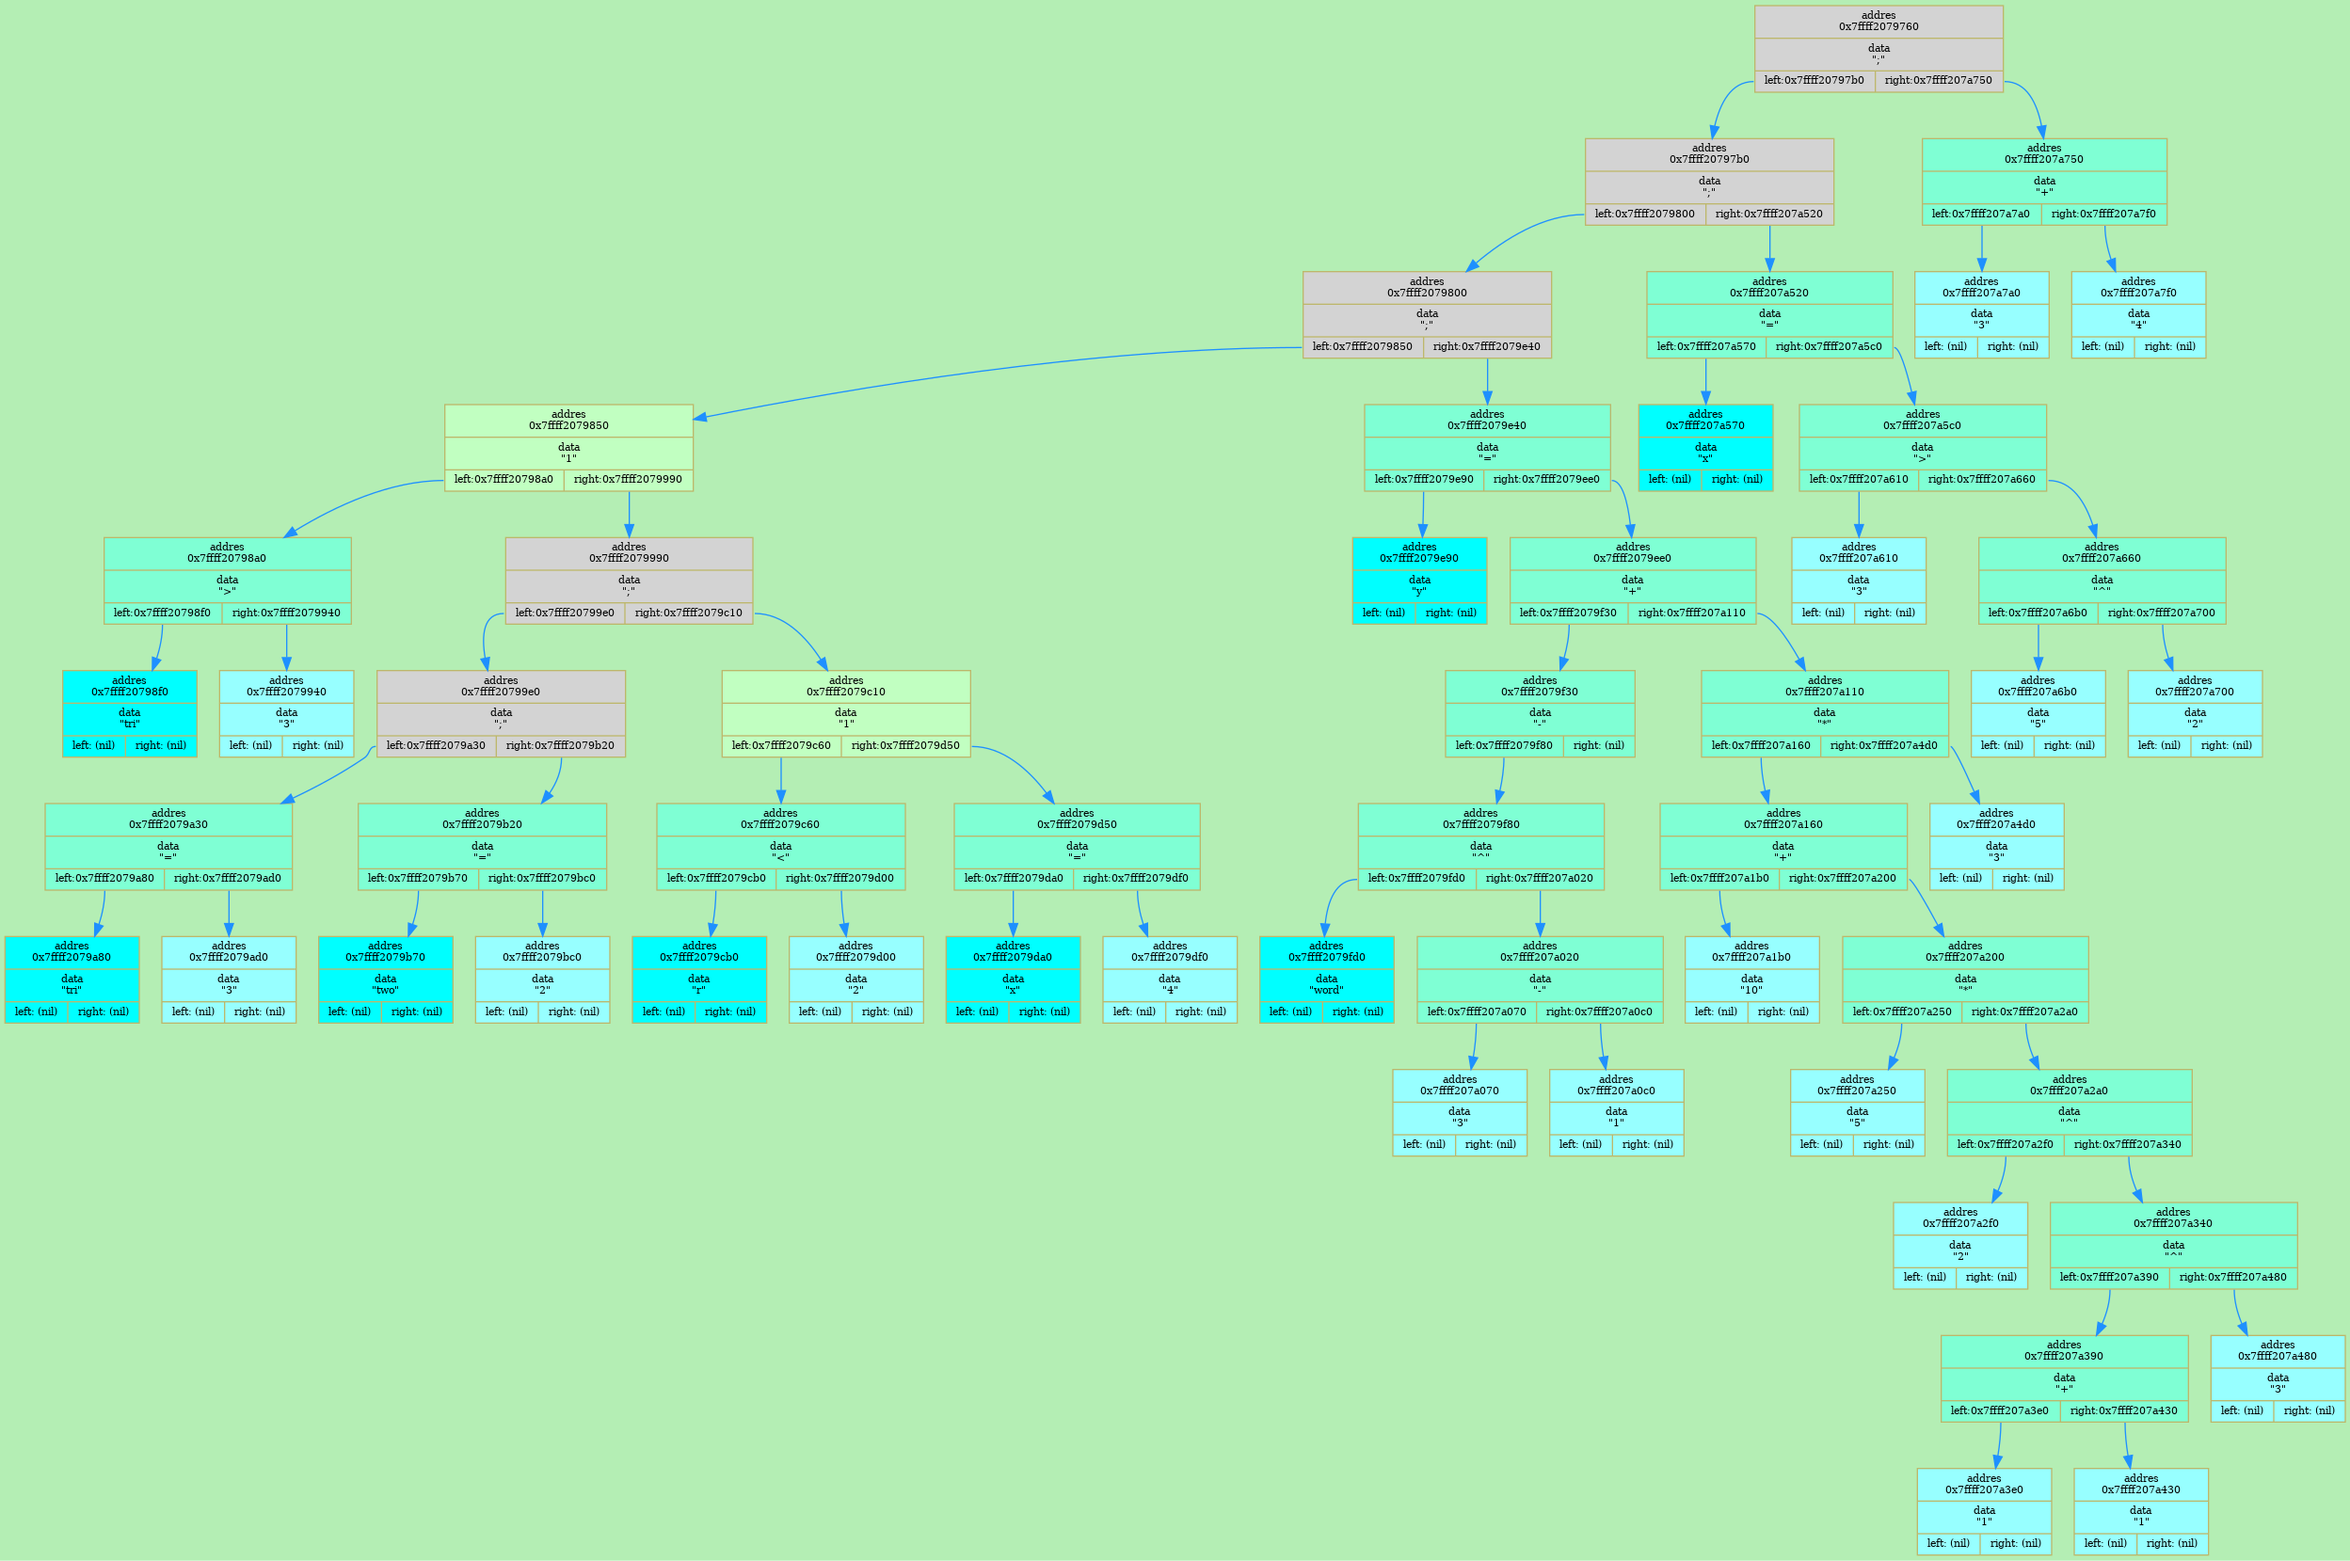
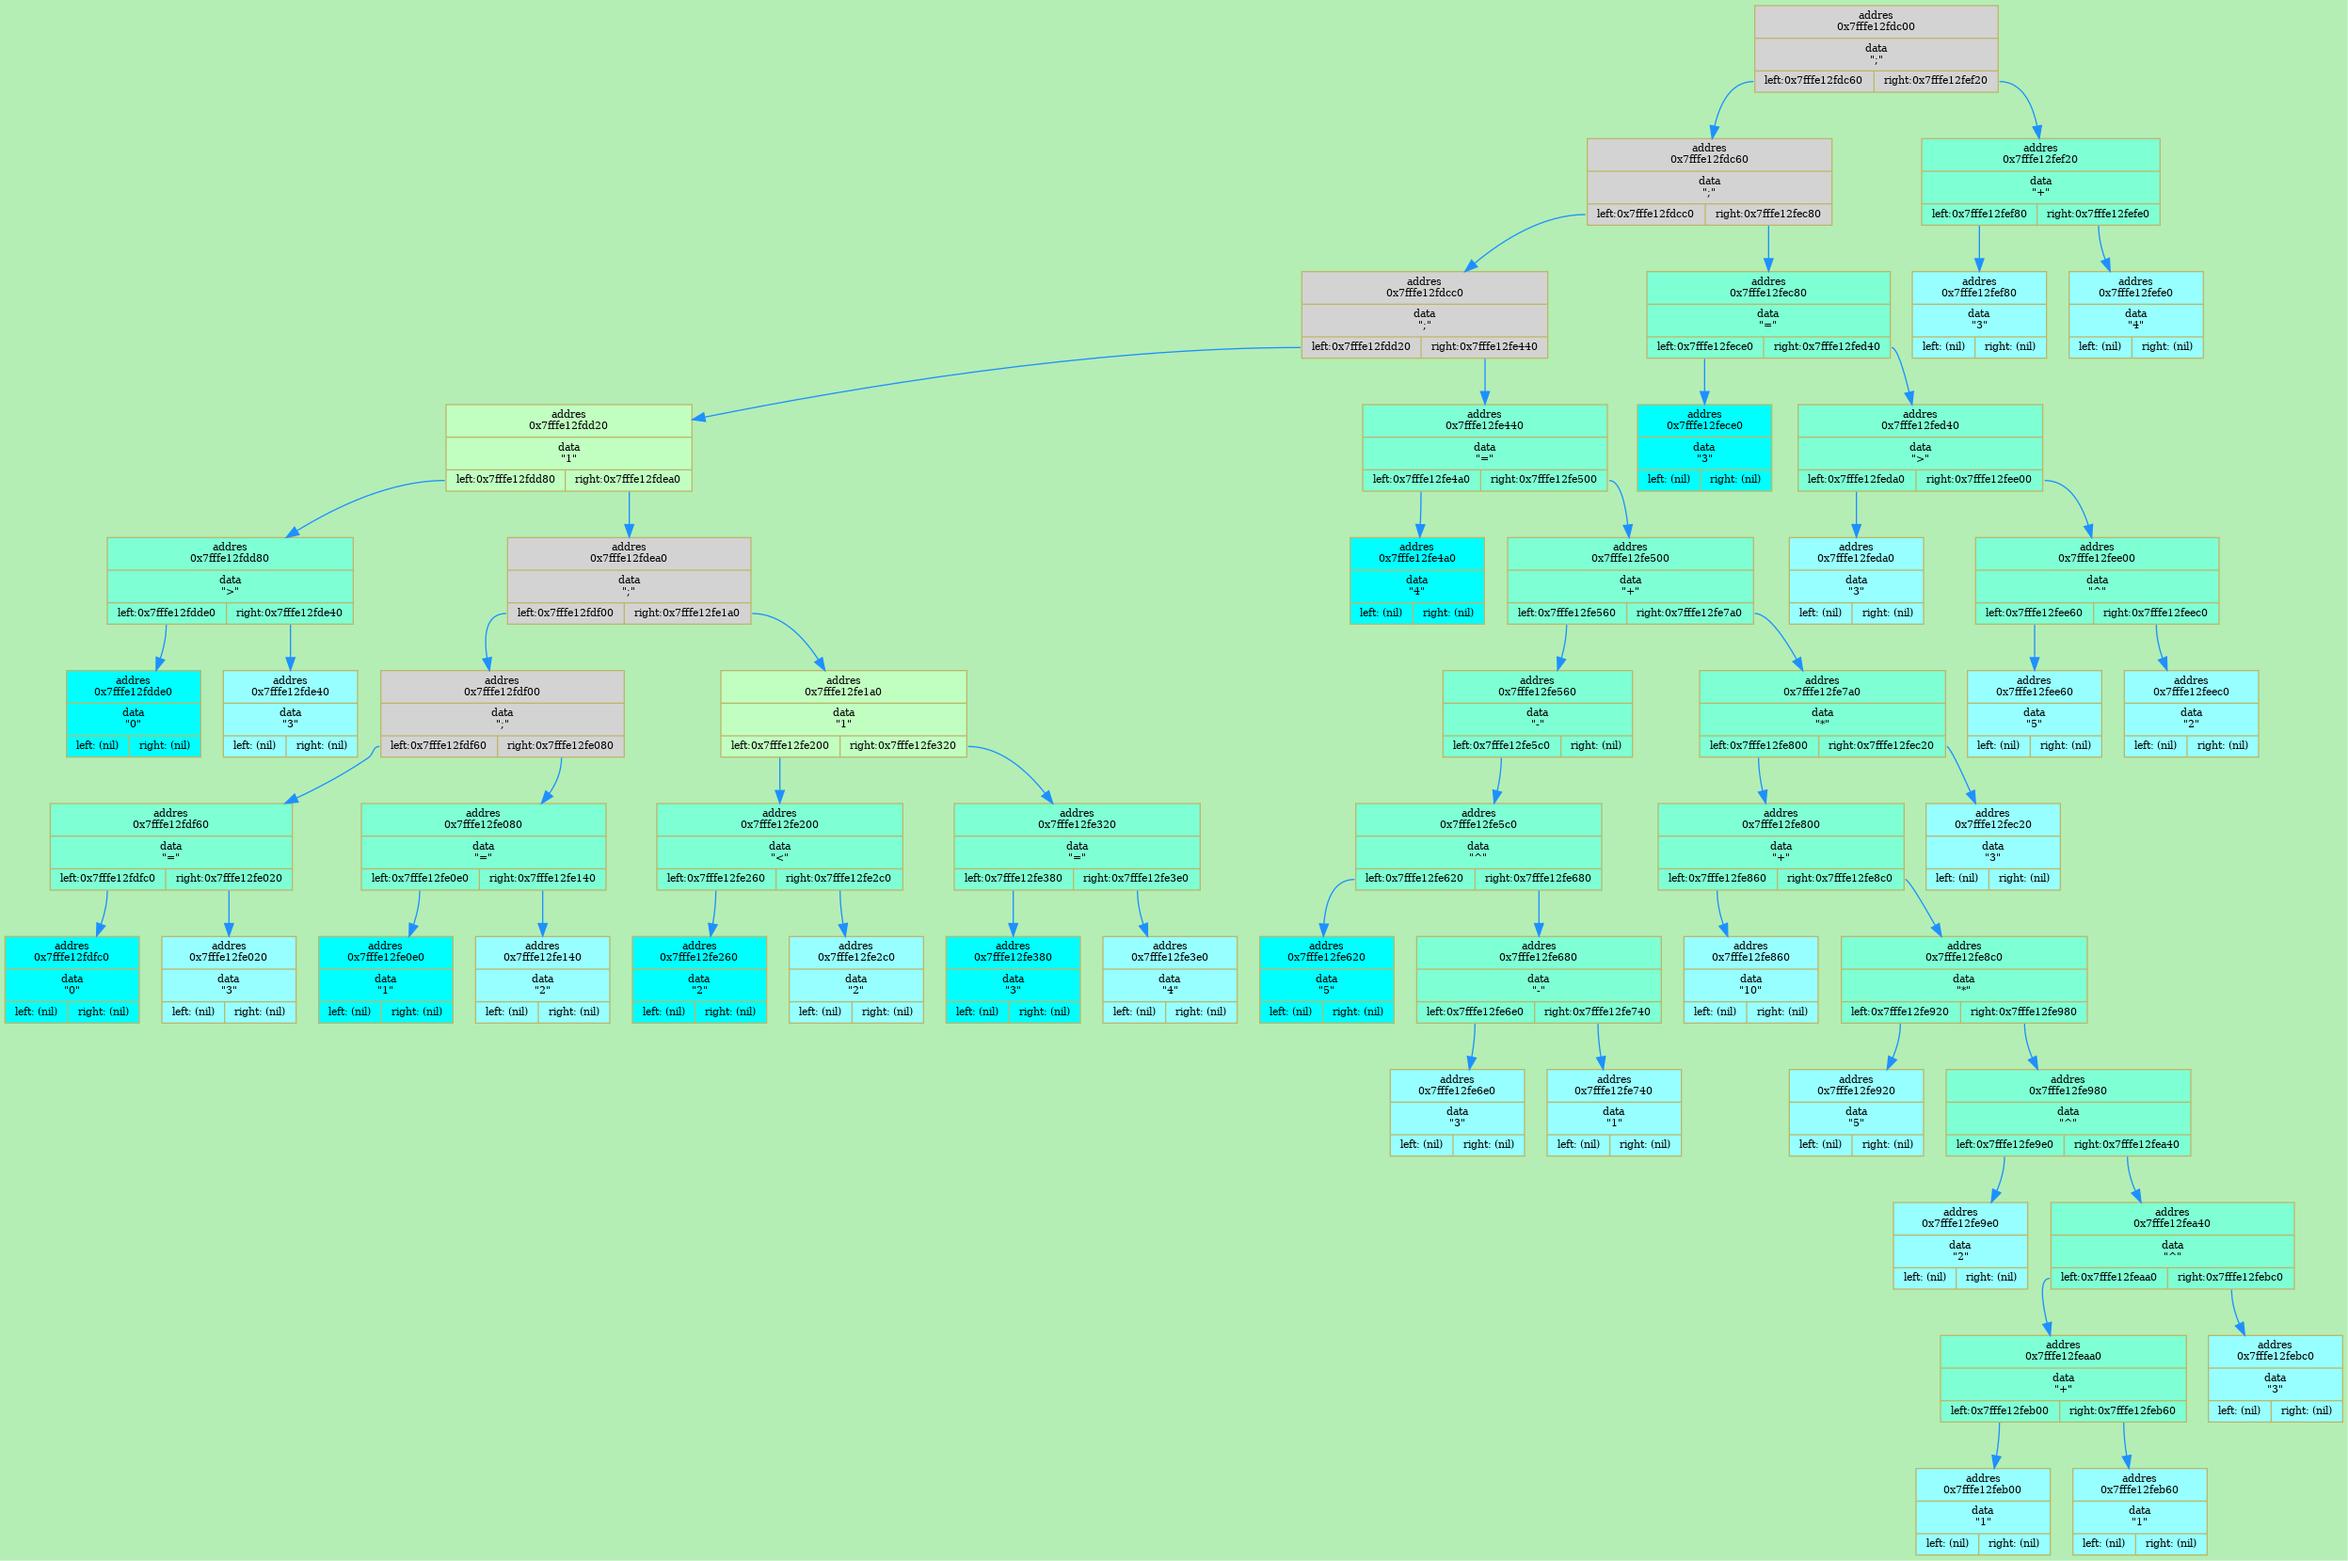
add label

diff --git a/src/parser.cpp b/src/parser.cpp
@@ -16,15 +16,19 @@ static item* GetWord                (sentence* sent);
 
 static int PrintError               (sentence* sent);
 
-static constr CheckConstruction        (const char* word);
-
-static int  SkipTabs (sentence* sent);
+static constr   CheckConstruction   (const char* word);
+static int      CheckLabel          (sentence* sent, char* word);
+static int      SkipTabs            (sentence* sent);
 
 item* GetGrammar (const char* str)
 {
     sentence sent = {};
     sent.str = str;
     sent.p = 0;
+    
+    sent.labelPoint = 0;
+    sent.labelSize  = MAXWORDLEN;
+    sent.label      = new char* [MAXWORDLEN];
 
     item* node = GetStr (&sent);
     
@@ -133,6 +137,8 @@ static item* GetEqual (sentence* sent)
     SkipTabs (sent);
 
     item* temp = GetExpression (sent);                      //
+
+    SkipTabs (sent);
     if ((temp->type == ERR) || (temp->type == CONSTR))
     { 
         if (parsSymb == '=')
@@ -383,7 +389,6 @@ static item* GetNumber (sentence* sent)
     {
         val = val * 10 + (parsSymb - '0');
         sent->p++;
-        SkipTabs (sent);
 
         if (('a' <= parsSymb && parsSymb <= 'z') || ('A' <= parsSymb && parsSymb <= 'Z'))
         {
@@ -403,6 +408,7 @@ static item* GetNumber (sentence* sent)
     else
         node = GetWord (sent);
 
+    SkipTabs (sent);
     return node;
 }
 
@@ -415,7 +421,8 @@ static item* GetWord (sentence* sent)
 
     int tempP = sent->p;
 
-    while (('a' <= parsSymb && parsSymb <= 'z') || ('A' <= parsSymb && parsSymb <= 'Z'))
+    while (('a' <= parsSymb && parsSymb <= 'z') || ('A' <= parsSymb && parsSymb <= 'Z') ||
+           ('0' <= parsSymb && parsSymb <= '9'))
     {
         word[counter] = parsSymb;
         sent->p++;
@@ -446,10 +453,29 @@ static item* GetWord (sentence* sent)
 
     else
     {
-        node->type = STR;
-        node->data.STR  = word;
-    } 
+        int wordId = CheckLabel (sent, word); 
+
+        node->type = STRID;
+        node->data.STRID  = wordId;
+    }
+
+    SkipTabs (sent); 
     return node;
+}
+
+static int CheckLabel (sentence* sent, char* word)
+{
+    for (int i = 0; i < sent->labelPoint; i++)
+    {
+        if (!strcmp (word, sent->label[i]))
+            return i;
+    }
+    
+    int wordId = sent->labelPoint;
+    sent->label[wordId] = word;
+    sent->labelPoint++;
+
+    return wordId;
 }
 
 static constr CheckConstruction (const char* word)
@@ -469,16 +495,32 @@ static constr CheckConstruction (const char* word)
 static int PrintError (sentence* sent)
 {
     printf ("SyntaxError!!!\n");
-    printf ("%s\n", sent->str);
-    printf ("%*s\n", sent->p, "^");
+    printf ("in line: %4d\n", sent->line);
+    
+    int i = sent->pStart;;
+    while (sent->str[i] != '\n')
+    {
+        putchar (sent->str[i]);
+        i++;
+    }
+
+    printf ("\n%*s\n", sent->p - sent->pStart, "^");
 
     return NOMISTAKE;
 }
 
 static int  SkipTabs (sentence* sent)
 {
-    while ((parsSymb == '\n') || (parsSymb == '\t') || (parsSymb == ' '))
+    while ((parsSymb == '\n') || (parsSymb == '\t') || (parsSymb == ' ') || (parsSymb == '\r'))
+    {
+        if (parsSymb == '\n')
+        {
+           sent->line++;
+           sent->pStart = sent->p + 1;
+        }
+
         sent->p++;
+    }
     
     return 0;
 }

diff --git a/src/graphviz.cpp b/src/graphviz.cpp
@@ -53,7 +53,14 @@ void DotElemCtor (void* index, typeNode type, structData data, void* next, void*
 
             break;
         
-        case STR:
+        case STRID:
+            fprintf (dotFile, "%d", data.STRID);
+            fprintf (dotFile, "\\\"|{<left>left:%10p|<right>right:%10p}}\", ", next, prev);
+            fprintf (dotFile, "fillcolor=\"%s\"", "aqua");
+
+            break;
+
+         case STR:
             fprintf (dotFile, "%s", data.STR);
             fprintf (dotFile, "\\\"|{<left>left:%10p|<right>right:%10p}}\", ", next, prev);
             fprintf (dotFile, "fillcolor=\"%s\"", "aqua");

diff --git a/include/tree.h b/include/tree.h
@@ -46,6 +46,7 @@ enum typeNode
     CHR         =    123,
     INT         =    213,
     STR         =    334,
+    STRID       =     23,
     OP          =   2140,
     CONSTR      =    777
 };
@@ -85,6 +86,7 @@ struct structData
     double          DBL     =       0;
     char            CHR     =       0;
     const char*     STR     = nullptr;
+    int             STRID   =       0;
     operate         OP      =     def;
     constr          CONSTR  =     str;
 };

diff --git a/include/parser.h b/include/parser.h
@@ -12,8 +12,14 @@ const int MAXWORDLEN    = 20;
 
 struct sentence 
 {
-    const char* str = nullptr;
-    int         p   =       0;  
+    const char* str         = nullptr;
+    int         p           =       0;
+    int         pStart      =       0; 
+    int         line        =       1;
+
+    int         labelPoint  =       0;
+    int         labelSize   =       0;
+    char**      label       = nullptr; 
 };
 
 struct item* GetGrammar (const char* str);

diff --git a/src/translator.cpp b/src/translator.cpp
@@ -1,9 +1,9 @@
 #include "../include/translator.h"
 
-struct stat stbuf;
-
 size_t GetSizeBuf(const char* origName)
 {
+    struct stat stbuf;
+
     assert (origName != NULL);
 
     stat(origName, &stbuf);
